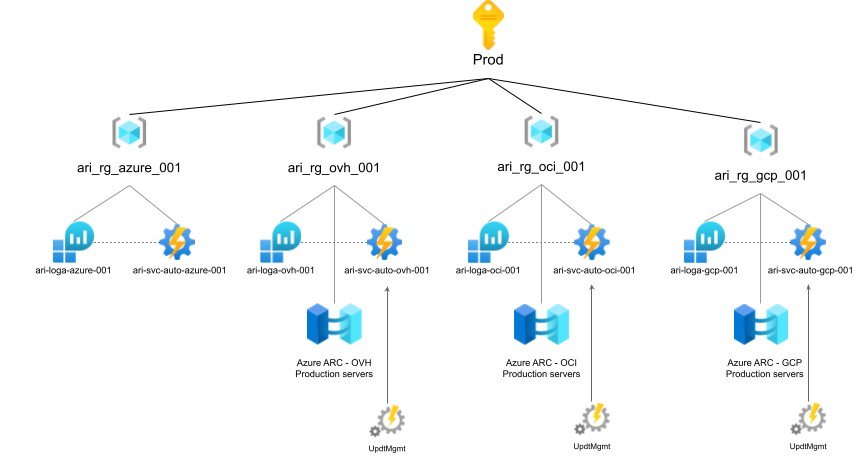
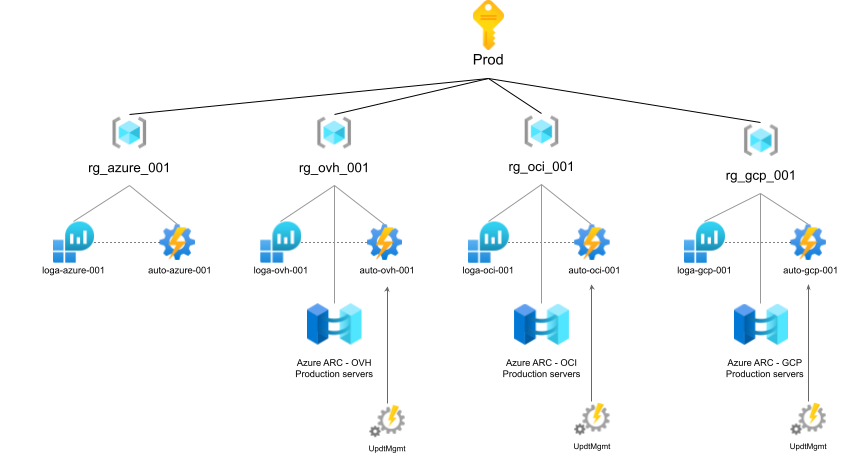
Ano

diff --git a/_posts/2022-08-03-Update-management-05.md b/_posts/2022-08-03-Update-management-05.md
@@ -81,56 +81,56 @@ The goal of this section is to show how to create filters button so that you can
     <th>Application tag</th>
   </tr>
   <tr>
-    <td>ari-loga-azure-001</td>
+    <td>loga-azure-001</td>
     <td>Azure</td>
     <td>azure</td>
     <td>prod</td>
     <td>update management</td>
   </tr>
   <tr>
-    <td>ari-loga-oci-001</td>
+    <td>loga-oci-001</td>
     <td>Azure</td>
     <td>oci</td>
     <td>prod</td>
     <td>update management</td>
   </tr>
   <tr>
-    <td>ari-loga-gcp-001</td>
+    <td>loga-gcp-001</td>
     <td>Azure</td>
     <td>gcp</td>
     <td>prod</td>
     <td>update management</td>
   </tr>
   <tr>
-    <td>ari-loga-ovh-001</td>
+    <td>loga-ovh-001</td>
     <td>Azure</td>
     <td>ovh</td>
     <td>prod</td>
     <td>update management</td>
   </tr>
   <tr>
-    <td>ari-loga-np-azure-001</td>
+    <td>loga-np-azure-001</td>
     <td>Azure</td>
     <td>azure</td>
     <td>no prod</td>
     <td>update management</td>
   </tr>
   <tr>
-    <td>ari-loga-np-oci-001</td>
+    <td>loga-np-oci-001</td>
     <td>Azure</td>
     <td>oci</td>
     <td>no prod</td>
     <td>update management</td>
   </tr>
   <tr>
-    <td>ari-loga-np-gcp-001</td>
+    <td>loga-np-gcp-001</td>
     <td>Azure</td>
     <td>gcp</td>
     <td>no prod</td>
     <td>update management</td>
   </tr>
   <tr>
-    <td>ari-loga-np-ovh-001</td>
+    <td>loga-np-ovh-001</td>
     <td>Azure</td>
     <td>ovh</td>
     <td>no prod</td>
